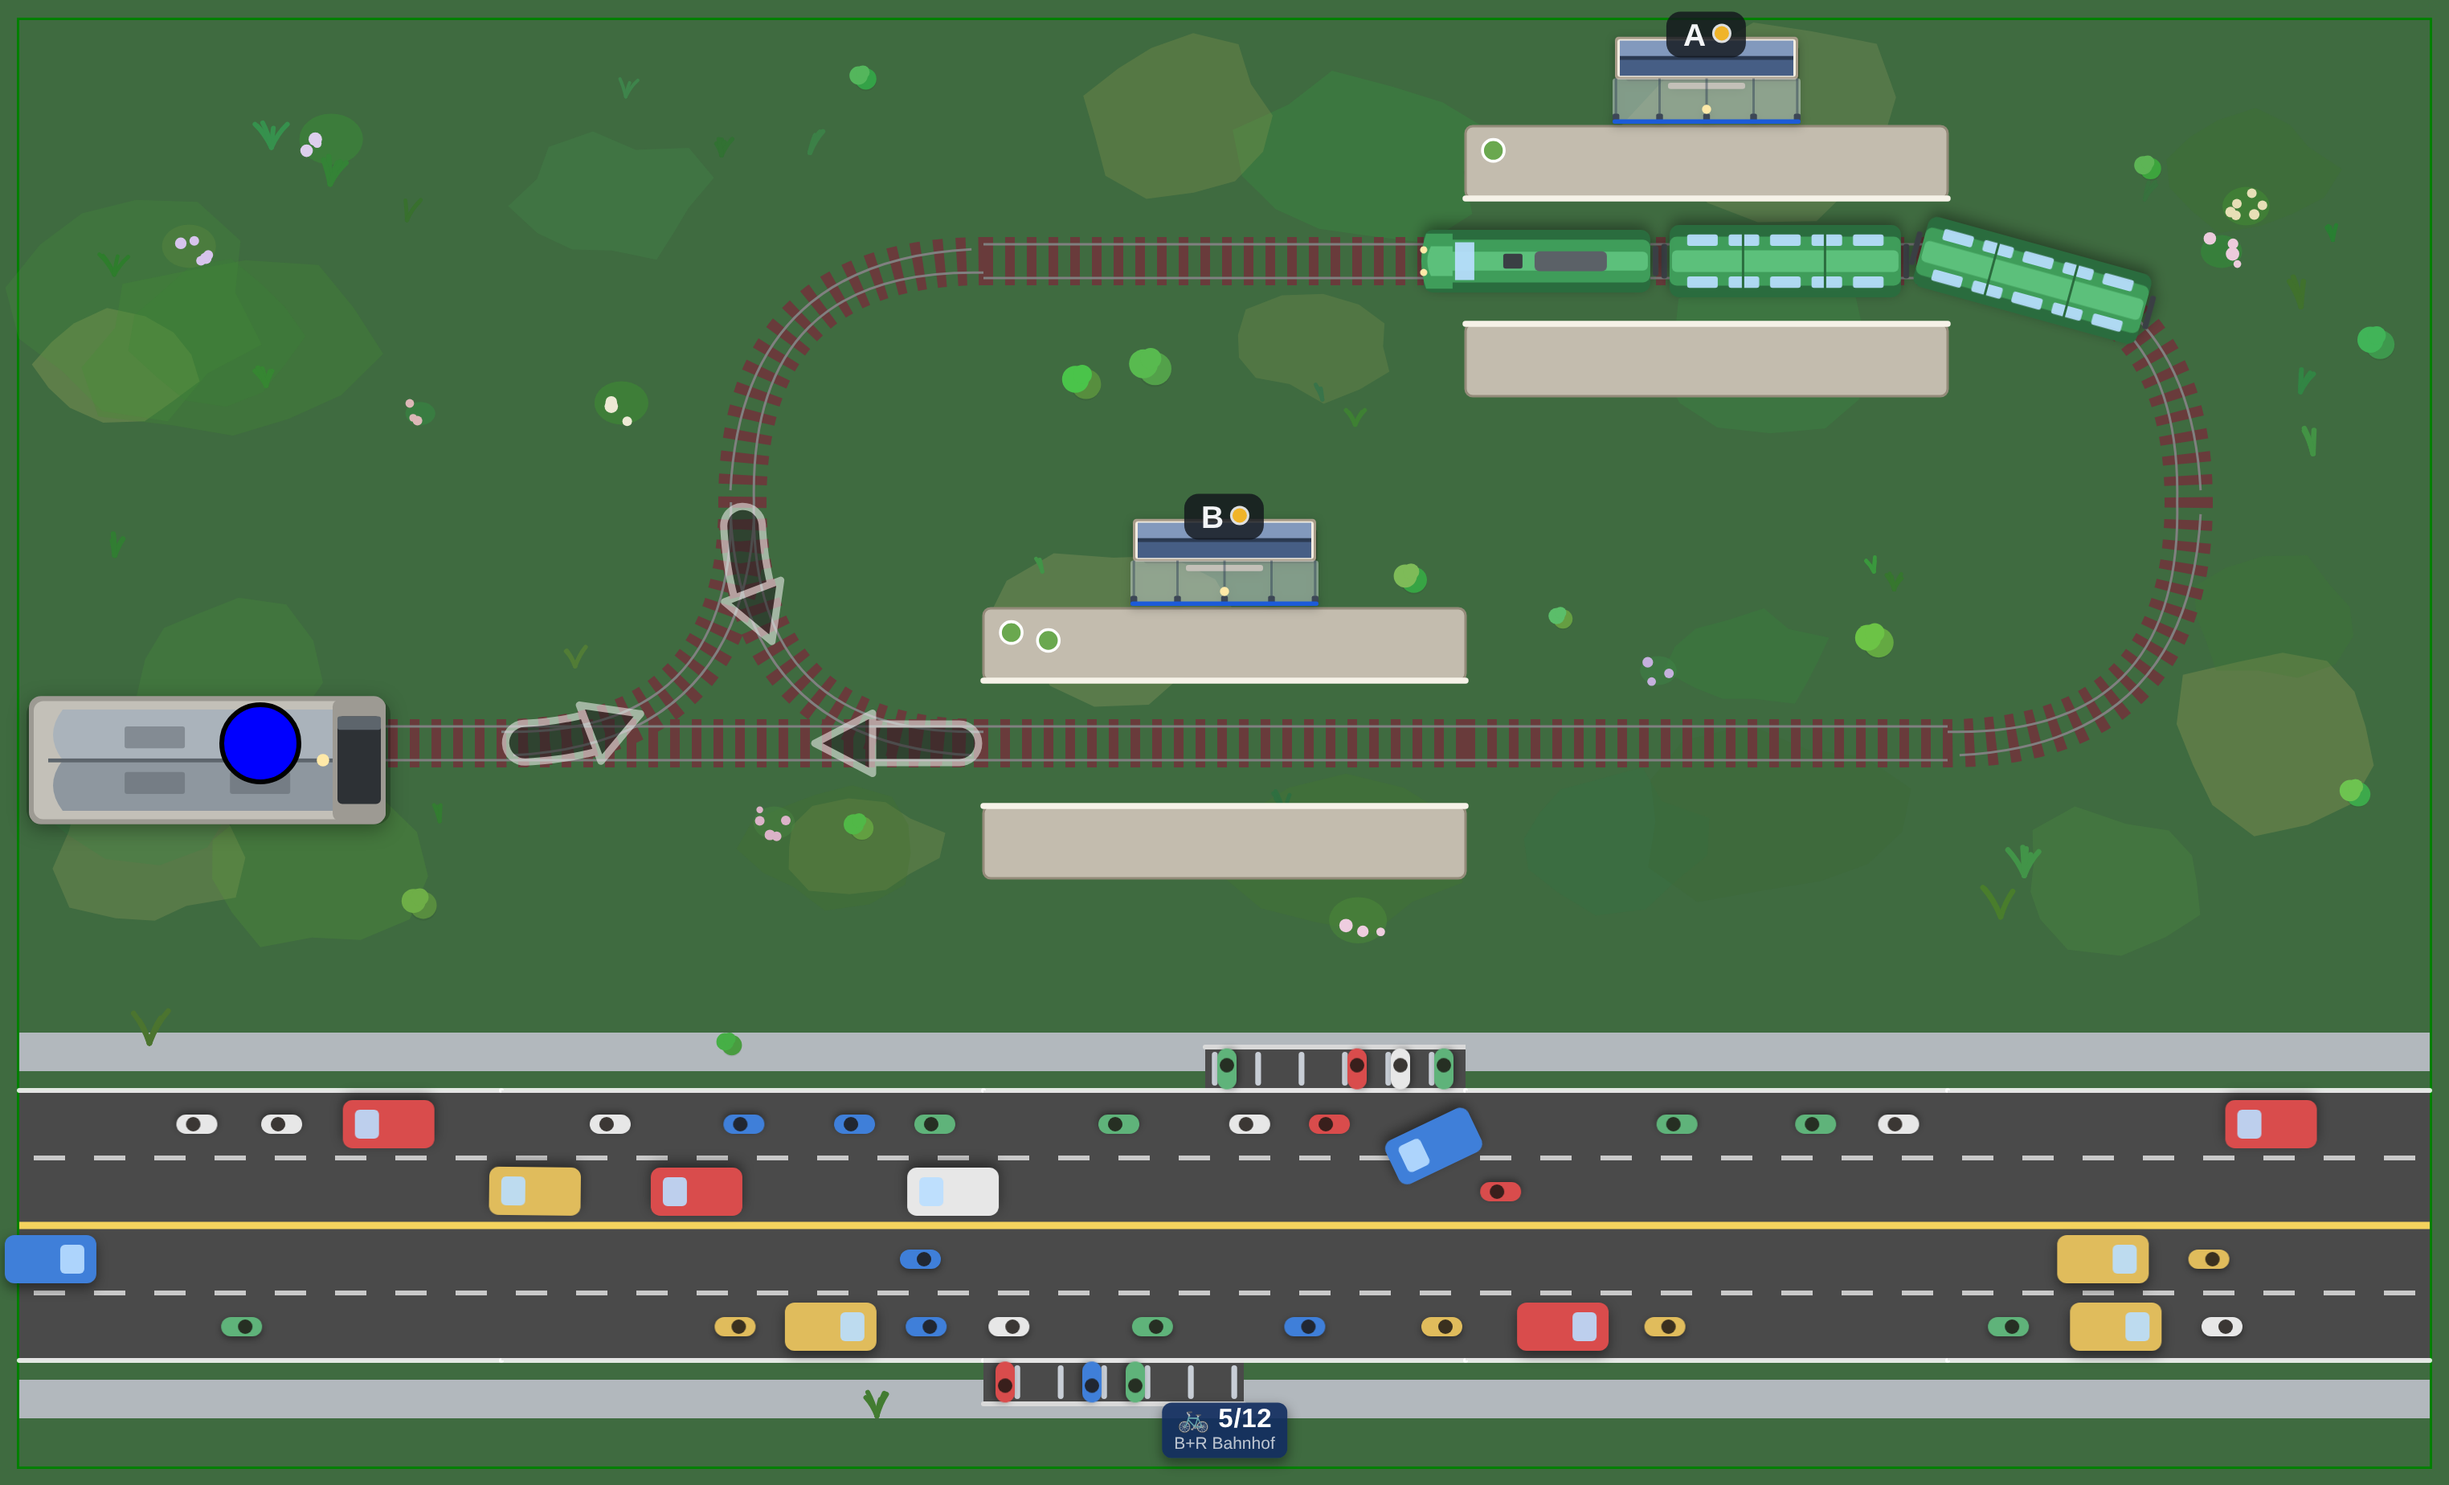
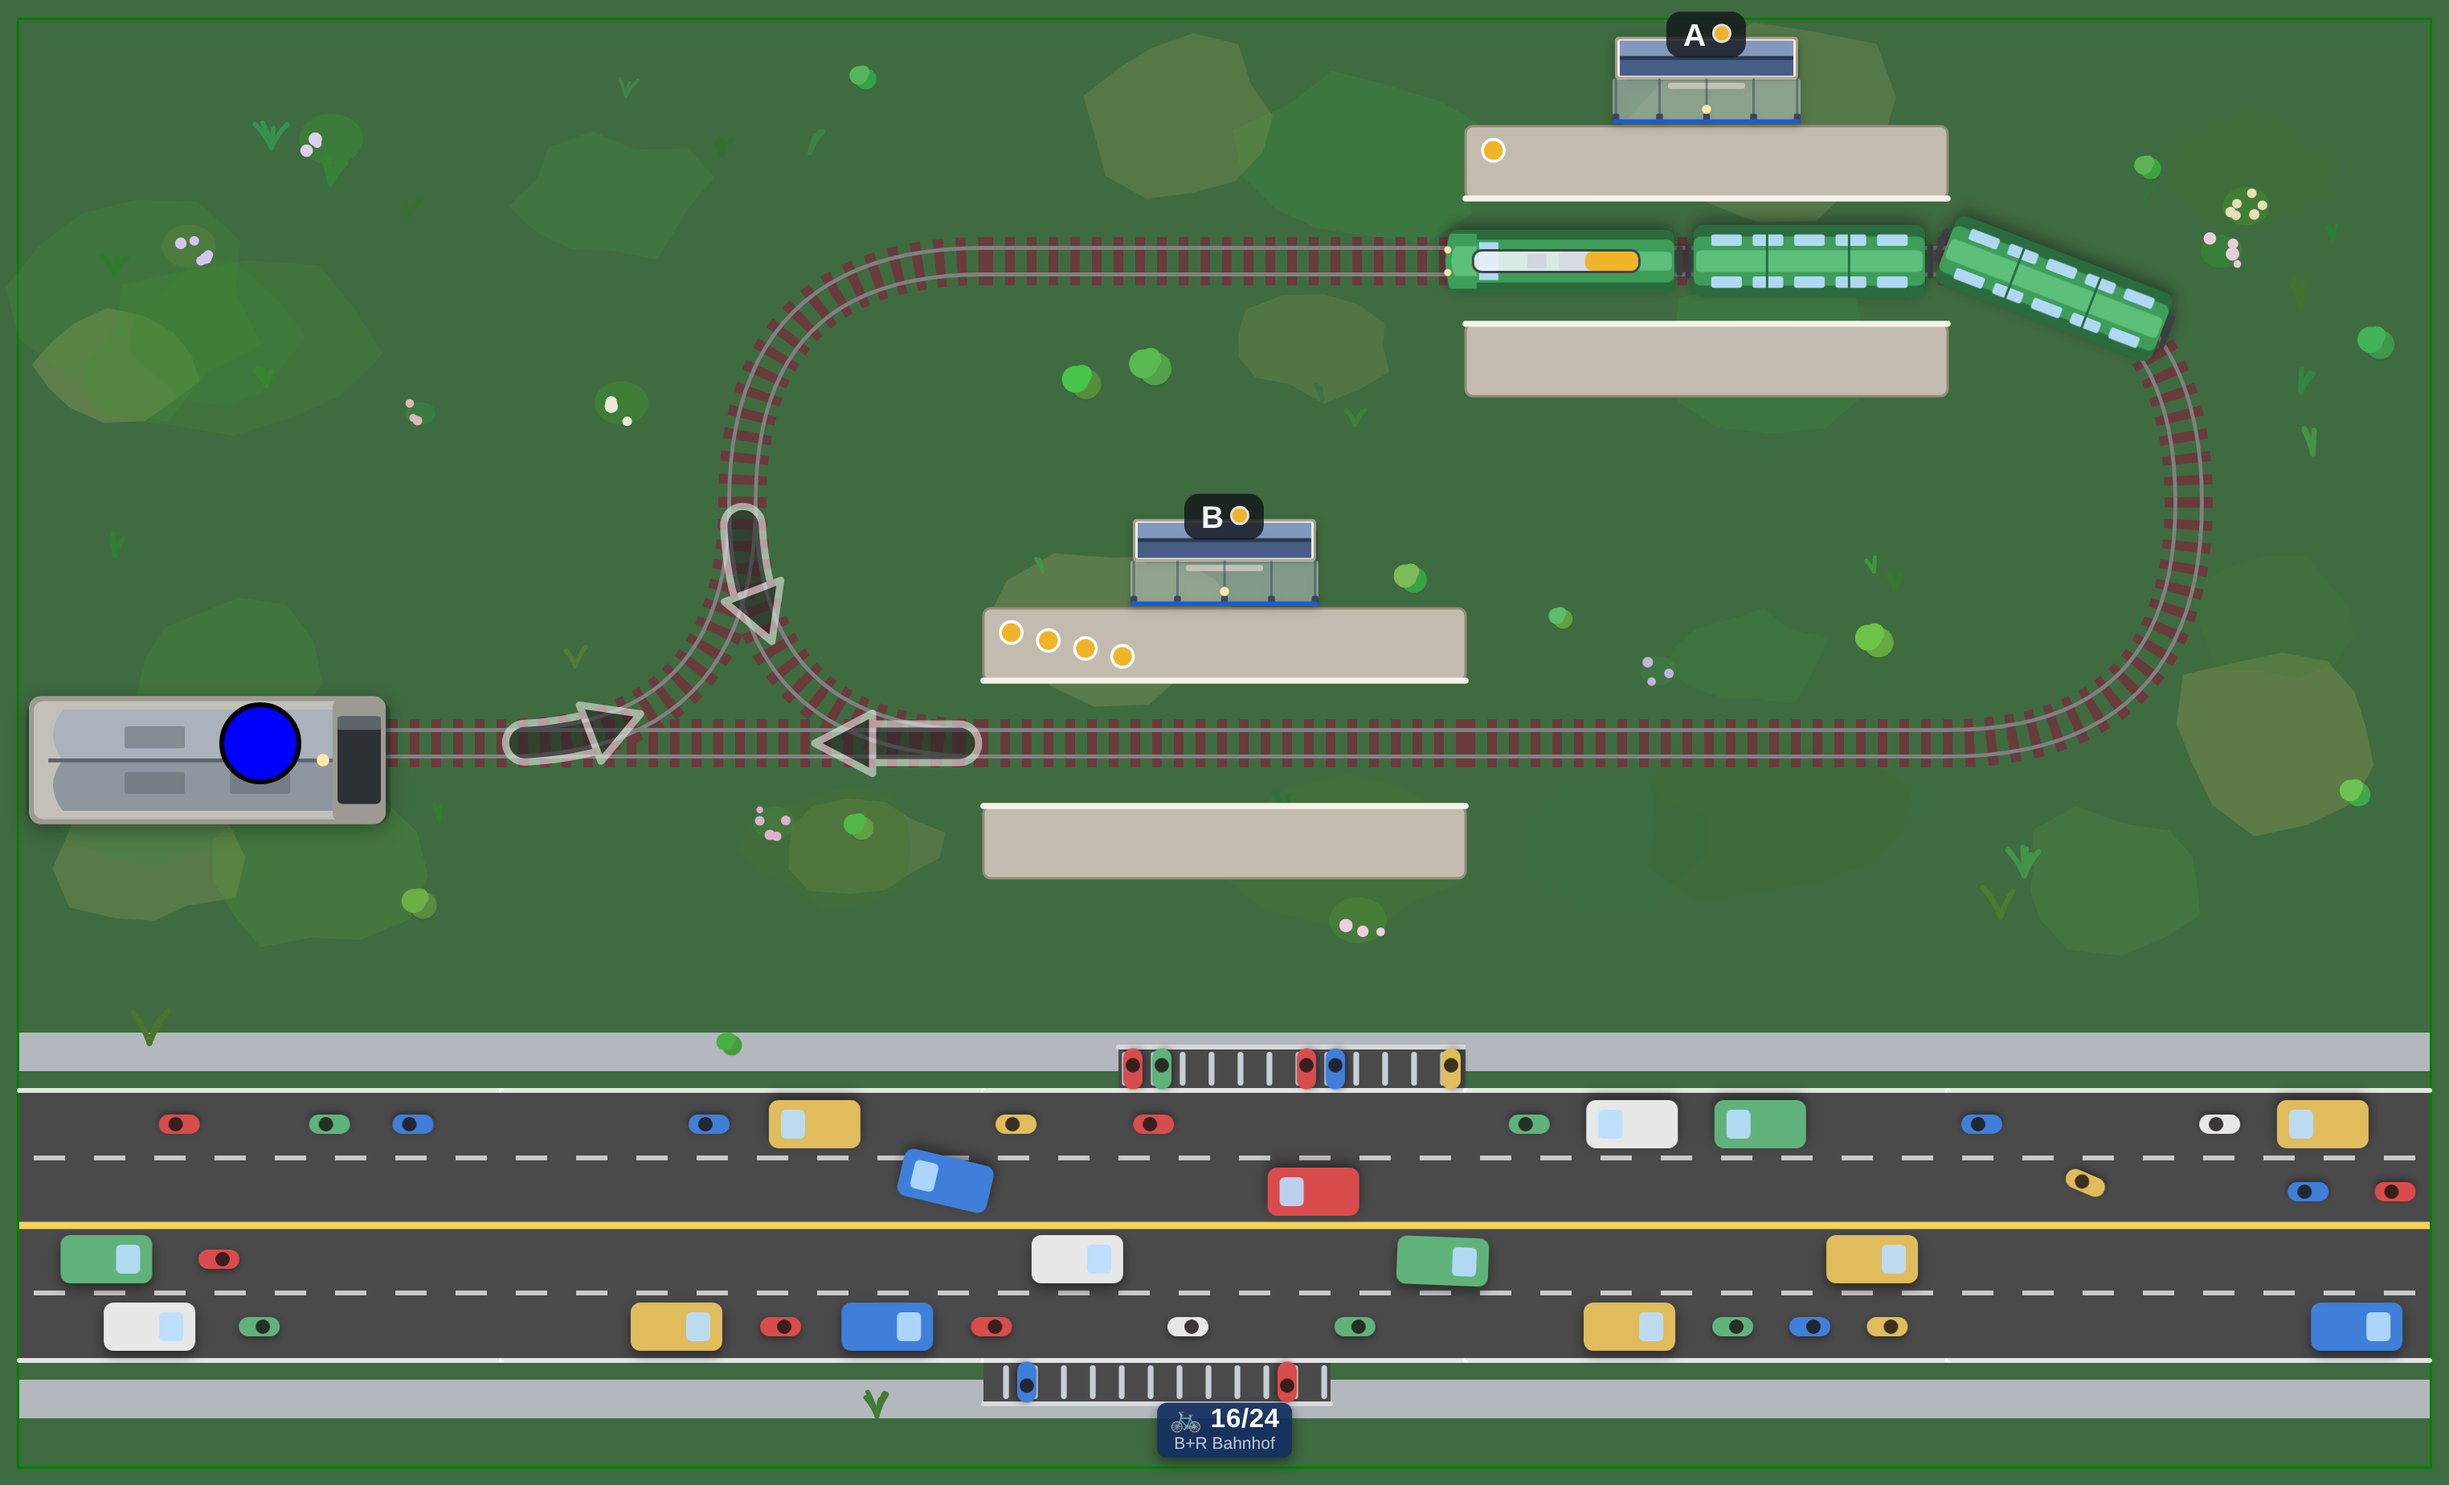
feat(bikes): the rack packs 16 stands per tile — a bike is small
Playtest: the 18px hoop pitch read as a half-empty rank — the bikes are 9px
wide and the kerb had room to spare. Pitch drops to 12px (a hand's width
between a hoop and the parked neighbour, which is what a real Anlehnbügel
rank looks like), so a tile holds 16 stands where 3 cars fit. Depth is
untouched — the fit gate still measures the same 17px body. The three rack
scenarios fill their rows (count 12 per bank; bikeandride's B+R now counts
/24), and the committed verify shots show the denser rank live.

Claude-Session: https://claude.ai/code/session_018cEoxPea8NatzZQmcScoh2

diff --git a/src/tiles/parking.ts b/src/tiles/parking.ts
@@ -434,10 +434,12 @@ const PITCH_FRAC: Record<StallKind, number> = {
   // 90° bays and wastes a third of the kerb.
   angled: 0.145,
   garage: 1, // the ramp mouth is one object, whatever the capacity
-  // 18px per stand — a bike is 9px wide, so each gets its hoop plus room to
-  // wheel in beside a parked neighbour. 11 stands per tile where 3 cars fit
-  // (parallel pitch 60px): the density argument FOR racks, made visible.
-  bikerack: 0.09,
+  // 12px per stand — a bike is 9px wide, so each hoop leaves a hand's width to
+  // wheel in beside a parked neighbour, which is what a real Anlehnbügel rank
+  // looks like. 16 stands per tile where 3 cars fit (parallel pitch 60px): the
+  // density argument FOR racks, made visible. (First shipped at 18px and it
+  // read as half-empty — the bikes are small, and the kerb had room to spare.)
+  bikerack: 0.06,
 };
 
 // A LONG bay — the lorry/coach bay. The longest single-box vehicle the sim builds

diff --git a/tests/unit/sim/bikeRack.spec.ts b/tests/unit/sim/bikeRack.spec.ts
@@ -81,8 +81,8 @@ describe("the bike rack — bike-only by its own kind", () => {
     }
   });
 
-  it("packs rack density: ~11 stands where 3 cars fit, all off the carriageway", () => {
-    expect(maxStallsPerTile("bikerack")).toBeGreaterThanOrEqual(10);
+  it("packs rack density: 16 stands where 3 cars fit, all off the carriageway", () => {
+    expect(maxStallsPerTile("bikerack")).toBeGreaterThanOrEqual(16);
     expect(maxStallsPerTile("parallel")).toBeLessThanOrEqual(4);
     // The stand must hold the body the sim actually builds (the fit gate's 2%
     // margin included) — this is why the depth is 0.09 and not the plan's 0.08.

diff --git a/src/levels/test/scenarios/citizenbike.ts b/src/levels/test/scenarios/citizenbike.ts
@@ -41,7 +41,7 @@ const street = (): TileCell => ({
 const home = (): TileCell => ({ connections: [], terrain: "urban", city: "veloheim" });
 const works = (city: string): TileCell => ({ connections: [], terrain: "industry", city });
 
-const rack = (from: Position): ParkingRow => ({ from, kind: "bikerack", count: 6 });
+const rack = (from: Position): ParkingRow => ({ from, kind: "bikerack", count: 12 });
 
 const level: Record<string, TileCell> = {};
 

diff --git a/src/levels/test/scenarios/bikerack.ts b/src/levels/test/scenarios/bikerack.ts
@@ -21,7 +21,7 @@ const street = (): Level[string] => ({
 const rack = (from: Position): ParkingRow => ({
   from,
   kind: "bikerack",
-  count: 6,
+  count: 12,
 });
 
 const bays = (from: Position): ParkingRow => ({

diff --git a/src/levels/test/scenarios/bikeandride.ts b/src/levels/test/scenarios/bikeandride.ts
@@ -16,7 +16,7 @@ import type { ParkingRow } from "@/tiles/parking";
 const racks = (from: Position): ParkingRow => ({
   from,
   kind: "bikerack",
-  count: 6,
+  count: 12,
 });
 
 const street = () => ({

diff --git a/docs/superpowers/specs/2026-08-05-bicycle-travel-mode-design.md b/docs/superpowers/specs/2026-08-05-bicycle-travel-mode-design.md
@@ -4,8 +4,9 @@ _Status: phases A+B BUILT (2026-08-05) — the bike vehicle kind, the per-kind
 speed factor, the cycle lane and the access matrix, the editor's three-state
 lane tool, and the three `/test` scenarios (`bikemix`, `bikeovertake`,
 `cyclelane`; sim pins in `tests/unit/sim/roadBikes.spec.ts`). Phase C BUILT
-(2026-08-20) — `StallKind "bikerack"` (walk-in/walk-out, no manoeuvre, 11
-stands/tile), `BayClass "bike"` closing the class matrix both ways, the
+(2026-08-20) — `StallKind "bikerack"` (walk-in/walk-out, no manoeuvre, 16
+stands/tile — densified 2026-08-21 after playtest: 18px pitch read
+half-empty), `BayClass "bike"` closing the class matrix both ways, the
 P+R/bike-and-ride split by bay class (`bikeAndRideStationsOf`,
 `CitizenWorld.bikeAndRideStations`), the transfer (a racked bike = 1 rider on
 the platform, zero new code), and — one deviation from §5/§6 below — cycling

diff --git a/docs/KNOWHOW.md b/docs/KNOWHOW.md
@@ -3734,7 +3734,8 @@ mode, shared paths — are NOT).
   in its lane.
 - Rack depth is 0.09 (18px), NOT the plan's 0.08: `stallFits` measures the real
   body (bike 17.1px) against `stallLengthPx · 0.98`, and 16px refuses the very
-  vehicle the rack exists for. Pitch 0.09 → 11 stands/tile where 3 cars fit.
+  vehicle the rack exists for. Pitch 0.06 (12px — a bike is 9px wide) → 16
+  stands/tile where 3 cars fit; it shipped at 18px first and read half-empty.
 - `BayClass "bike"` admits bikes ONLY, and no other class admits a bike — both
   directions matter, because a bike passes every size gate there is. A rack
   cannot be `reserved` (needsBigBay would size the stands for a lorry) or
